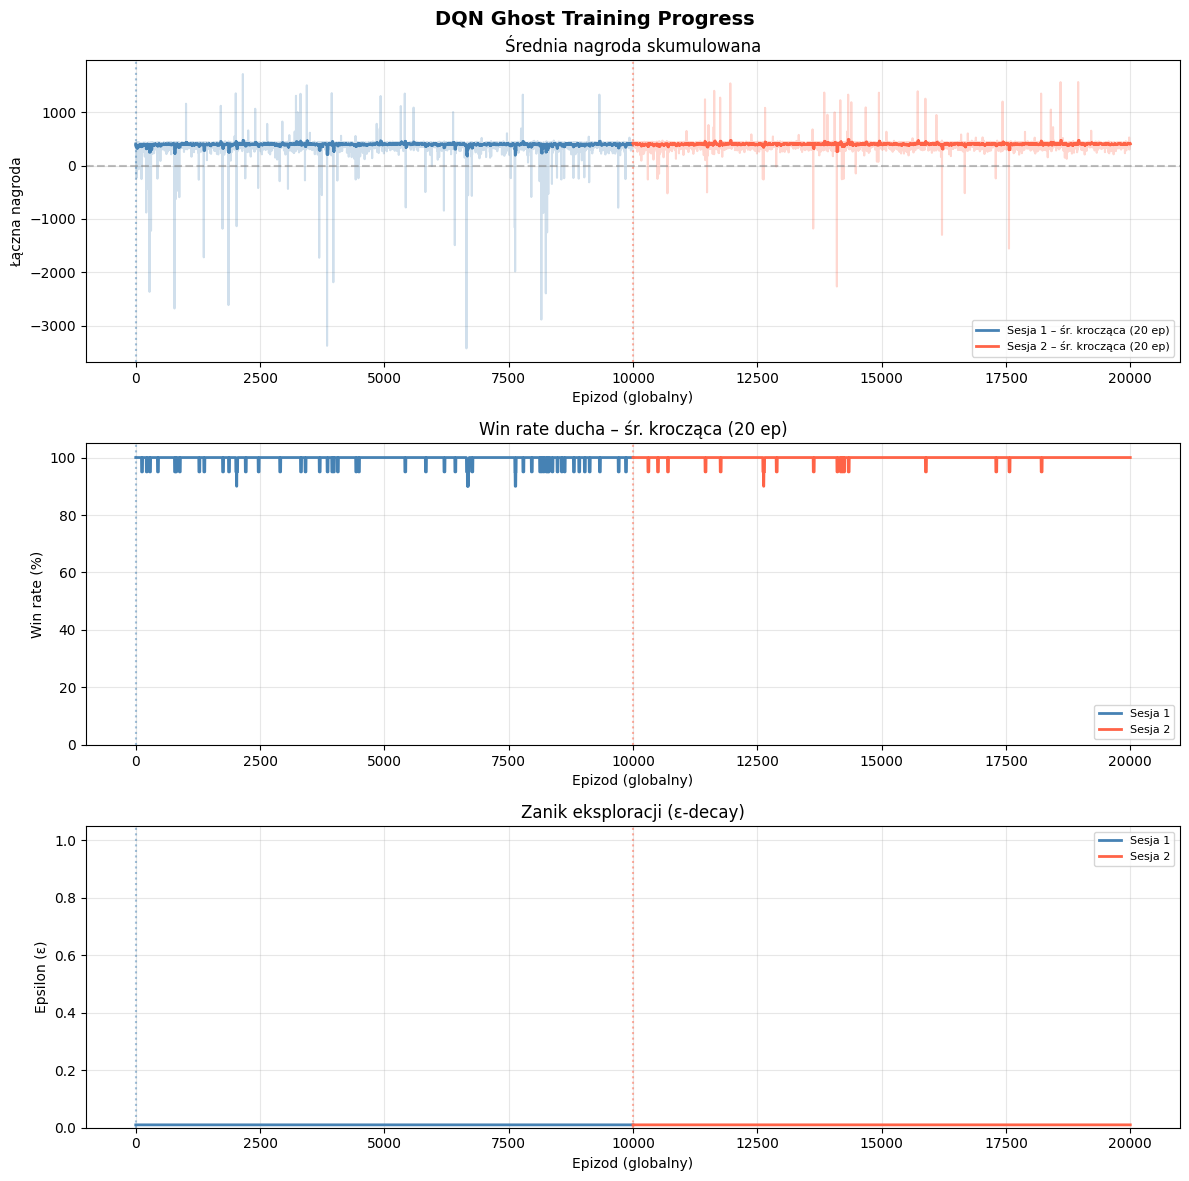
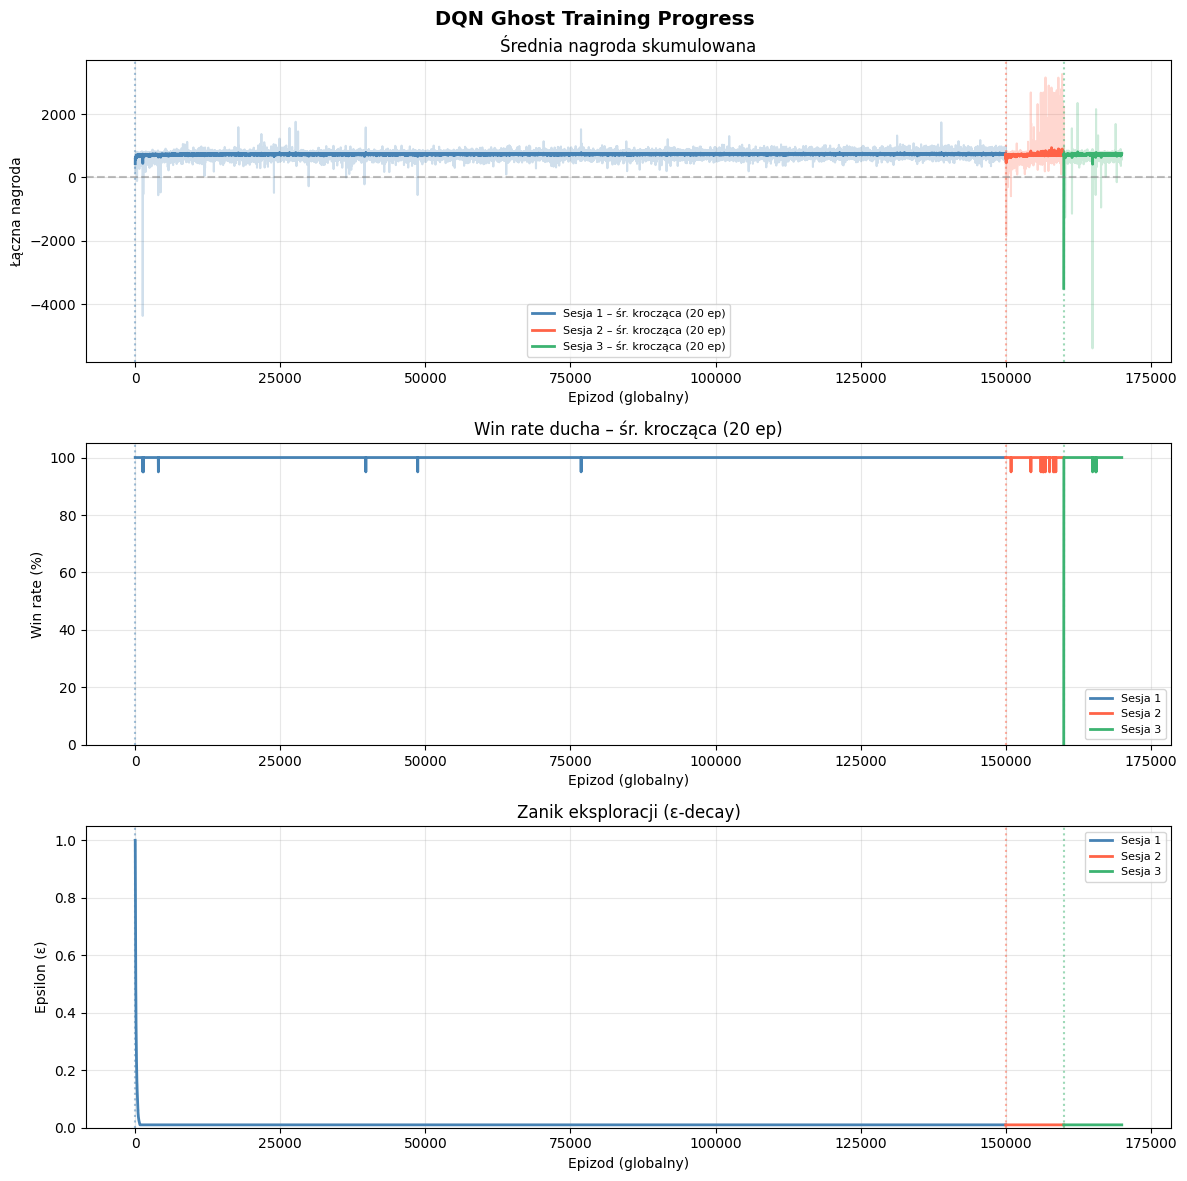
modele done

diff --git a/frontend/index.html b/frontend/index.html
@@ -112,8 +112,8 @@
         <!-- Wybór modelu -->
         <div style="font-size:0.6rem;color:var(--text-dim);text-transform:uppercase;letter-spacing:1px;margin-bottom:6px;">Model agenta</div>
         <div class="level-selector" id="playModelSelector">
-          <button class="level-btn active" id="playModelBtn1" onclick="onPlayModelSelect(1)" title="Wysoka nagroda za złapanie, duża kara za krok">Agresywny</button>
-          <button class="level-btn"        id="playModelBtn2" onclick="onPlayModelSelect(2)" title="Zbalansowane nagrody">Cierpliwy</button>
+          <button class="level-btn active" id="playModelBtn1" onclick="onPlayModelSelect(1)" title="Zbalansowane nagrody">Cierpliwy</button>
+          <button class="level-btn"        id="playModelBtn2" onclick="onPlayModelSelect(2)" title="Wysoka nagroda za złapanie, duża kara za krok">Agresywny</button>
         </div>
 
         <hr class="section-sep" />
@@ -232,8 +232,8 @@
         <!-- Wybór modelu do treningu -->
         <div style="font-size:0.6rem;color:var(--text-dim);text-transform:uppercase;letter-spacing:1px;margin-bottom:6px;">Model do treningu</div>
         <div class="level-selector" id="trainModelSelector">
-          <button class="train-lvl-btn active" id="trainModelBtn1" onclick="onTrainModelSelect(1)" title="Agresywny: +500 złapanie, krok -1.0">Agresywny</button>
-          <button class="train-lvl-btn"        id="trainModelBtn2" onclick="onTrainModelSelect(2)" title="Cierpliwy: +500 złapanie, krok -0.5">Cierpliwy</button>
+          <button class="train-lvl-btn active" id="trainModelBtn1" onclick="onTrainModelSelect(1)" title="Cierpliwy: zbalansowane nagrody">Cierpliwy</button>
+          <button class="train-lvl-btn"        id="trainModelBtn2" onclick="onTrainModelSelect(2)" title="Agresywny: wysoka nagroda za złapanie, duża kara za krok">Agresywny</button>
         </div>
 
         <hr class="section-sep" />

diff --git a/backend/environment.py b/backend/environment.py
@@ -82,7 +82,7 @@ MAZES = {
         [1, 1, 1, 0, 1, 1, 1, 1, 0, 1, 0, 1, 1, 1, 1, 0, 1, 1, 1],
         [1, 1, 1, 0, 1, 1, 0, 0, 0, 0, 0, 0, 0, 1, 1, 0, 1, 1, 1],
         [1, 1, 1, 0, 0, 0, 0, 1, 1, 3, 1, 1, 0, 0, 0, 0, 1, 1, 1],
-        [0, 0, 0, 0, 1, 1, 0, 1, 3, 3, 3, 1, 0, 1, 1, 0, 0, 0, 0],
+        [0, 0, 0, 0, 1, 1, 0, 0, 3, 3, 3, 0, 0, 1, 1, 0, 0, 0, 0],
         [1, 1, 1, 0, 1, 1, 0, 1, 1, 1, 1, 1, 0, 1, 1, 0, 1, 1, 1],
         [1, 1, 1, 0, 0, 0, 0, 0, 0, 1, 0, 0, 0, 0, 0, 0, 1, 1, 1],
         [1, 1, 1, 0, 1, 1, 1, 1, 0, 1, 0, 1, 1, 1, 1, 0, 1, 1, 1],
@@ -207,25 +207,24 @@ MAZES = {
 
 REWARD_PROFILES = {
     1: {
-        # Agresywny – bardzo wysoka nagroda za złapanie, duża presja czasu
-        # Efekt: duszek goni Pac-Mana maksymalnie agresywnie
-        "catch_reward":       750.0,
+        # CIERPLIWY (slot 1, model_A_v2.pth)
+        "catch_reward":       550.0,
         "direction_mult":      6.0,
-        "step_penalty":       -2.0,
-        "ghost_eaten":       -60.0,
-        "timeout_penalty":  -100.0,
-        "pacman_won":       -100.0,
-        "backtrack_penalty": -10.0,
+        "step_penalty":       -1.0,
+        "ghost_eaten":       -50.0,
+        "timeout_penalty":  -90.0,
+        "pacman_won":       -80.0,
+        "backtrack_penalty": -13.0,
     },
     2: {
-        # Standardowy – zbalansowane wartości (domyślny)
-        "catch_reward":       600.0,
-        "direction_mult":      5.0,
-        "step_penalty":       -1,
+        # AGRESYWNY (slot 2, model_B_v2.pth)
+        "catch_reward":       700.0,
+        "direction_mult":      8.0,
+        "step_penalty":       -1.0,
         "ghost_eaten":       -50.0,
-        "timeout_penalty":   -50.0,
-        "pacman_won":        -50.0,
-        "backtrack_penalty":  -8.0,
+        "timeout_penalty":   -120.0,
+        "pacman_won":        -120.0,
+        "backtrack_penalty":  -15.0,
     },
 }
 

diff --git a/backend/app.py b/backend/app.py
@@ -64,8 +64,8 @@ CORS(app)   # Zezwól na CORS dla wszystkich endpointów (dev)
 _MODELS_DIR = os.path.join(os.path.dirname(__file__), "models")
 
 MODEL_SLOTS = {
-    1: {"file": "model_A_v2.pth", "name": "Agresywny",   "reward_profile": 1},
-    2: {"file": "model_B_v2.pth", "name": "Cierpliwy", "reward_profile": 2},
+    1: {"file": "model_A_v2.pth", "name": "Cierpliwy",  "reward_profile": 1},
+    2: {"file": "model_B_v2.pth", "name": "Agresywny",  "reward_profile": 2},
 }
 
 current_model_slot = 1   # aktywny slot modelu
